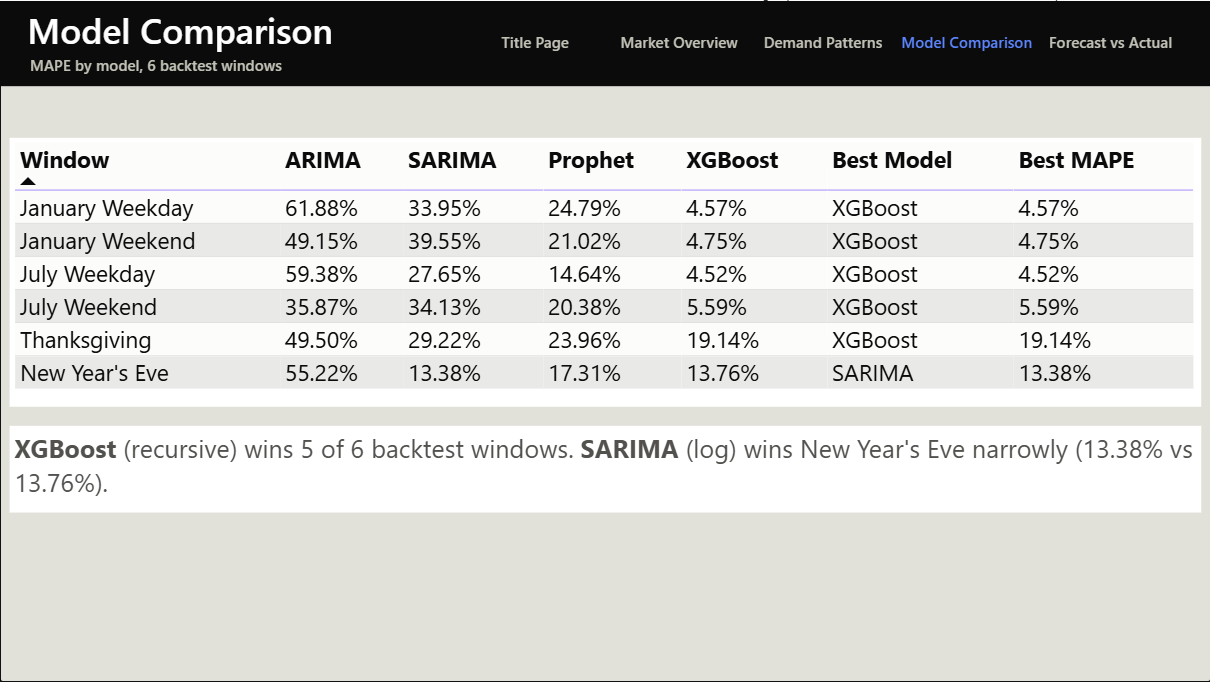
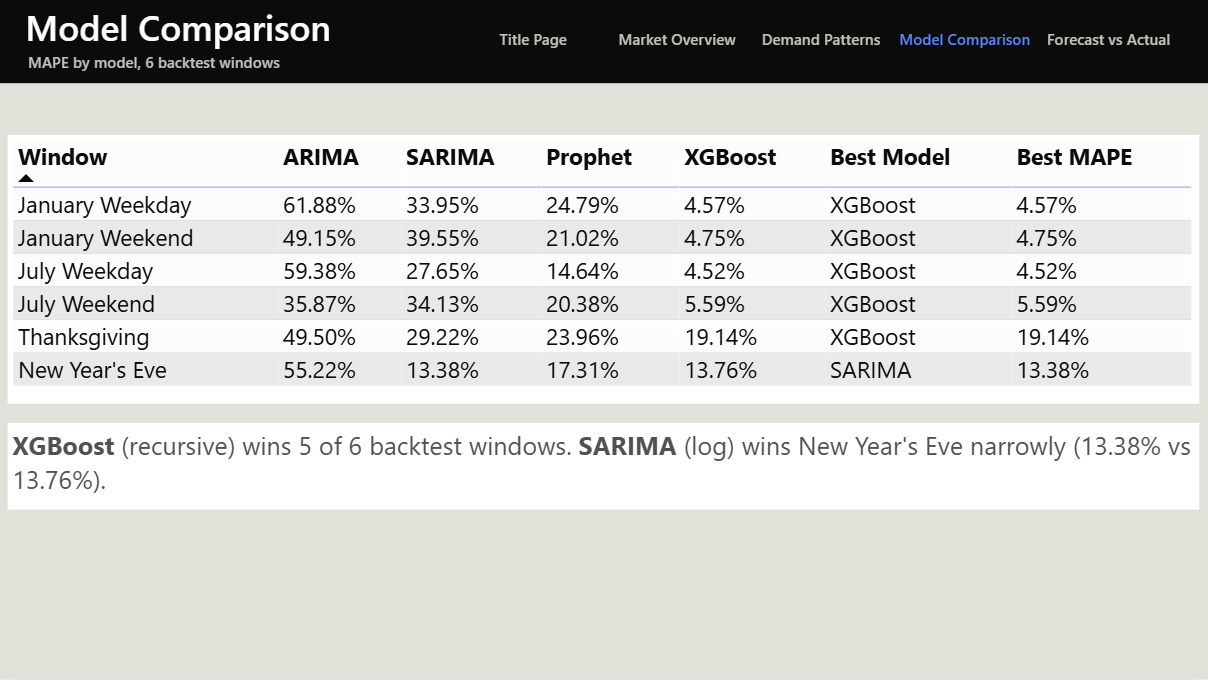
Housekeeping: README + screenshots
Rewrote README prose to remove em dashes (rules/colons instead), per no-em-dash writing style. Replaced all 5 Power BI dashboard screenshots with newly retaken versions. Minor .pbix diff from Power BI Desktop.

diff --git a/README.md b/README.md
@@ -1,33 +1,33 @@
 # NYC Taxi Demand Forecasting
 
-An end-to-end data analytics project on NYC TLC trip data: ingestion, exploratory analysis, time-series demand forecasting, and a Power BI dashboard — built entirely on Databricks Free Edition.
+An end-to-end data analytics project on NYC TLC trip data: ingestion, exploratory analysis, time-series demand forecasting, and a Power BI dashboard, built entirely on Databricks Free Edition.
 
 ## Overview
 
-NYC publishes monthly trip-record data for Yellow taxis, Green (boro) taxis, and High-Volume For-Hire Vehicles (HVFHV — Uber/Lyft/Via). This project pulls that data (2019–2025), aggregates it to hourly demand per vehicle type, explores how the market has shifted over time (including the COVID-19 crash and recovery), engineers calendar/lag/rolling features, backtests four forecasting model families (ARIMA, SARIMA, Prophet, XGBoost) across 6 hand-picked demand regimes, and visualizes both the exploratory analysis and the forecast results in a 5-page Power BI dashboard.
+NYC publishes monthly trip-record data for Yellow taxis, Green (boro) taxis, and High-Volume For-Hire Vehicles (HVFHV: Uber/Lyft/Via). This project pulls that data (2019–2025), aggregates it to hourly demand per vehicle type, explores how the market has shifted over time (including the COVID-19 crash and recovery), engineers calendar/lag/rolling features, backtests four forecasting model families (ARIMA, SARIMA, Prophet, XGBoost) across 6 hand-picked demand regimes, and visualizes both the exploratory analysis and the forecast results in a 5-page Power BI dashboard.
 
 ## Tech stack
 
-- **Databricks Free Edition** — PySpark, Delta Lake (managed tables), MLflow
-- **Power BI Desktop** — connected directly to a Databricks serverless SQL warehouse (no CSV exports)
-- **Python** — pandas, matplotlib for exploratory analysis
+- **Databricks Free Edition**: PySpark, Delta Lake (managed tables), MLflow
+- **Power BI Desktop**: connected directly to a Databricks serverless SQL warehouse (no CSV exports)
+- **Python**: pandas, matplotlib for exploratory analysis
 
 ## Data
 
-- **Source:** [NYC TLC Trip Record Data](https://www.nyc.gov/site/tlc/about/tlc-trip-record-data.page) — public Parquet files, one per vehicle type per month
+- **Source:** [NYC TLC Trip Record Data](https://www.nyc.gov/site/tlc/about/tlc-trip-record-data.page): public Parquet files, one per vehicle type per month
 - **Range:** 2019–2025, Yellow + Green + HVFHV (~250 source files, ~40–50 GB raw)
-- **Storage:** aggregated to a single `hourly_demand` Delta table (`hour`, `vehicle_type`, `trip_count`) — raw files are never persisted, only streamed through and aggregated, to stay within Databricks Free Edition's 10 GB storage quota. See `PIPELINE.md` for the full data flow.
+- **Storage:** aggregated to a single `hourly_demand` Delta table (`hour`, `vehicle_type`, `trip_count`). Raw files are never persisted, only streamed through and aggregated, to stay within Databricks Free Edition's 10 GB storage quota. See `PIPELINE.md` for the full data flow.
 
 ## Project status
 
 | Phase | Status |
 |---|---|
-| 1 — Ingest (`01_ingest`) | Complete |
-| 2 — Exploratory analysis (`02_explore`) | Complete |
-| 2b — Power BI dashboard (Pages 1–3, EDA) | Complete |
-| 3 — Feature engineering (`03_features`) | Complete |
-| 4 — Modelling (ARIMA, SARIMA, Prophet, XGBoost) (`04_modelling`) | Complete |
-| 5 — Power BI dashboard (Pages 4–5, forecast results) | Complete |
+| 1: Ingest (`01_ingest`) | Complete |
+| 2: Exploratory analysis (`02_explore`) | Complete |
+| 2b: Power BI dashboard (Pages 1–3, EDA) | Complete |
+| 3: Feature engineering (`03_features`) | Complete |
+| 4: Modelling (ARIMA, SARIMA, Prophet, XGBoost) (`04_modelling`) | Complete |
+| 5: Power BI dashboard (Pages 4–5, forecast results) | Complete |
 
 ## Dashboard
 
@@ -49,7 +49,7 @@ Five pages:
 
 ## Modelling
 
-Four model families were backtested across 6 hand-picked demand regimes (ordinary weekday/weekend in January and July, plus two irregular high-variance windows — Thanksgiving and New Year's Eve) using an expanding-window walk-forward split, tracked with MLflow. **XGBoost (recursive forecasting) won 5 of 6 windows outright**; SARIMA (log-transformed) narrowly won New Year's Eve. Full write-up, per-model variant breakdown, and MLflow experiment details are in `notebooks/04_modelling.ipynb`.
+Four model families were backtested across 6 hand-picked demand regimes (ordinary weekday/weekend in January and July, plus two irregular high-variance windows: Thanksgiving and New Year's Eve) using an expanding-window walk-forward split, tracked with MLflow. **XGBoost (recursive forecasting) won 5 of 6 windows outright**; SARIMA (log-transformed) narrowly won New Year's Eve. Full write-up, per-model variant breakdown, and MLflow experiment details are in `notebooks/04_modelling.ipynb`.
 
 ![January Weekday: Actual vs Forecast](screenshots/python_visuals/final/jan_weekday_forecast_comparison.png)
 ![New Year's Eve: Actual vs Forecast](screenshots/python_visuals/final/NYE_forecast_comparison.png)
